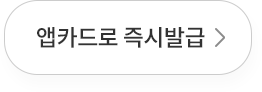
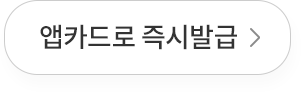
문구 수정 / type-a 등장 모션 수정

diff --git a/type_a/assets/scss/main.scss b/type_a/assets/scss/main.scss
@@ -110,7 +110,7 @@ $tW : 720;
 
           img {width:502px; height:370px; margin-left:-251px; margin-top:-185px;
             @include opacity(0);
-            transform:scale(1.5);
+            transform:scale(1.2);
 
             //&.onShow {
             //  @include opacity(1);
@@ -133,7 +133,7 @@ $tW : 720;
           &.onShow {
             @include  opacity(1);
             margin-top:0;
-            @include transform-css-transition('0.5s ease-out 0s, opacity 0.5s ease-out 0s, margin-top 0.5s ease-out 0s');
+            @include transform-css-transition('0.7s ease-out 0s, opacity 0.7s ease-out 0s, margin-top 0.7s ease-out 0s');
           }
 
           .pod {position:absolute;left:0;top:0;
@@ -158,7 +158,7 @@ $tW : 720;
                 &.hover .focus { opacity:0; @include css-value-transition('opacity 0.2s')}
                 &.hover-effect .focus { opacity:1; @include css-value-transition('opacity 0.2s')}
               }
-              .card-btn-1 {width:262px;height:92px; left:176px; top:654px;}
+              .card-btn-1 {width:301px;height:92px; left:157px; top:652px; }
               .card-btn-2 {width:271px;height:64px; left:60px; top:704px;}
               .card-btn-3 {width:213px;height:64px; left:60px; top:651px;}
               .card-btn-4 {width:212px;height:64px; left:60px; top:662px;}

diff --git a/type_a/assets/js/main.js b/type_a/assets/js/main.js
@@ -246,14 +246,14 @@ var main = (function($) {
         $('.popup-con').load('popup.html .popup',subLoadComplete);
 
         setTimeout(show1, 500);
-        setTimeout(show2, 1000);
-        setTimeout(show3, 1400);
+        setTimeout(show2, 900);
+        setTimeout(show3, 1200);
     };
 
     var show1 = function() {
         // $('.card-float img').addClass('onShow');
 
-        $('.card-float img').animate({ 'opacity': 1, 'transform':'scale(1)' }, 500, 'easeOutBounce');
+        $('.card-float img').animate({ 'opacity': 1, 'transform':'scale(1)' }, 900, 'easeInOutElastic');
     };
 
     var show2 = function() {
